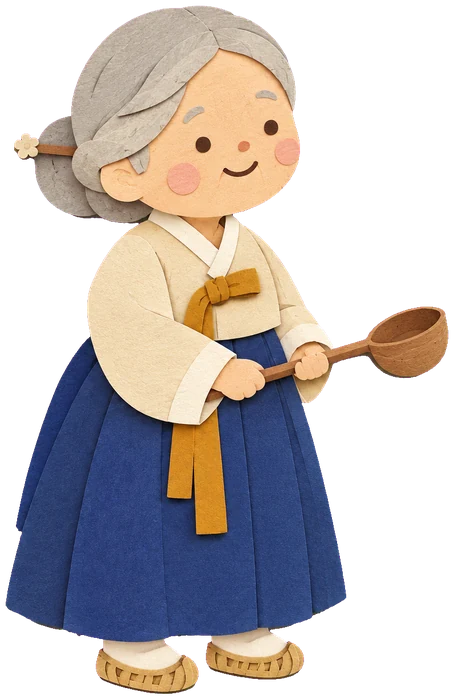
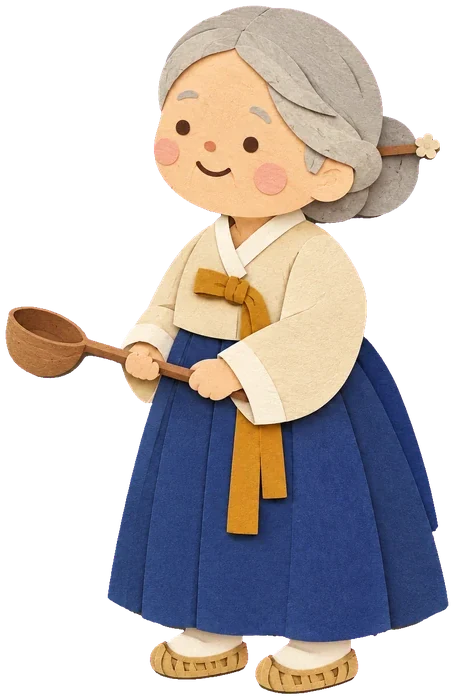
팥죽 할멈이 친구 쪽을 보게 그림 방향 맞춤, 휴대폰 길게 누르기 메뉴 막기
- 새 할멈 그림은 오른쪽을 보는데 게임은 왼쪽을 보는 그림을 기준으로 뒤집어서, 쇠똥·자라 쪽을 등지고 있었음 → 그림을 좌우 반전
- 휴대폰에서 '꾹 눌러 건너뛰기'를 길게 누르면 이미지 저장·글자 선택 메뉴가 먼저 떠서 건너뛰기가 안 되던 것:
  동화 화면 전체에 -webkit-touch-callout/user-select 끄기, contextmenu 막기, 건너뛰기 단추 touch-action: none

Claude-Session: https://claude.ai/code/session_01LNk5ZqxZZjA2bBcEAsTsQ1

diff --git a/engine/tale.js b/engine/tale.js
@@ -911,6 +911,7 @@ const Tale = (() => {
     const hint = $('#rotateHint');
     if (hint) { hint.onpointerdown = e => { e.stopPropagation(); hint.classList.add('gone'); }; setTimeout(() => hint.classList.add('gone'), 6000); } cam = $('#cam'); bgL = $('#bgL'); world = $('#world'); fxL = $('#fxL'); handEl = $('#hand');
     // 대사 건너뛰기: 무대 1초 꾹 (보호자용). 짧은 탭은 무시한다
+    $('#tale').addEventListener('contextmenu', e => e.preventDefault()); // 길게 누를 때 뜨는 메뉴(이미지 저장 등) 막기
     let ht = null;
     $('#stageWrap').addEventListener('pointerdown', () => { clearTimeout(ht); ht = setTimeout(() => Narrator.stop(), 1000); });
     ['pointerup', 'pointerleave', 'pointercancel'].forEach(ev => $('#stageWrap').addEventListener(ev, () => clearTimeout(ht)));

diff --git a/engine/tale.css b/engine/tale.css
@@ -393,3 +393,7 @@ svg text { font-weight: 800; }
 .restGate .pill { min-width: 88px; min-height: 64px; font-size: 24px; }
 #restScreen, #restScreen .words, #restScreen .pills { align-items: center; justify-content: center; text-align: center; }
 #restScreen { flex-direction: column; }
+
+/* 길게 누르기(보호자 건너뛰기) 때 휴대폰의 '이미지 저장'·글자 선택 메뉴가 뜨지 않게 */
+#tale, #tale * { -webkit-touch-callout: none; -webkit-user-select: none; user-select: none; }
+#tale img, #tale image { -webkit-user-drag: none; }

diff --git a/tales/patjuk/patjuk.css b/tales/patjuk/patjuk.css
@@ -121,3 +121,4 @@
 @media (prefers-reduced-motion: reduce) {
   .fr-sway, .pj-steam .puff, .pj-snow circle, .pj-fire { animation: none; }
 }
+#skipBtn { touch-action: none; -webkit-touch-callout: none; user-select: none; }
